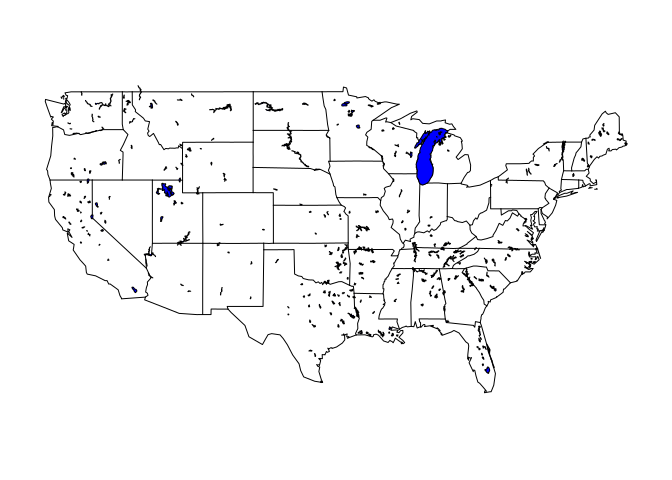
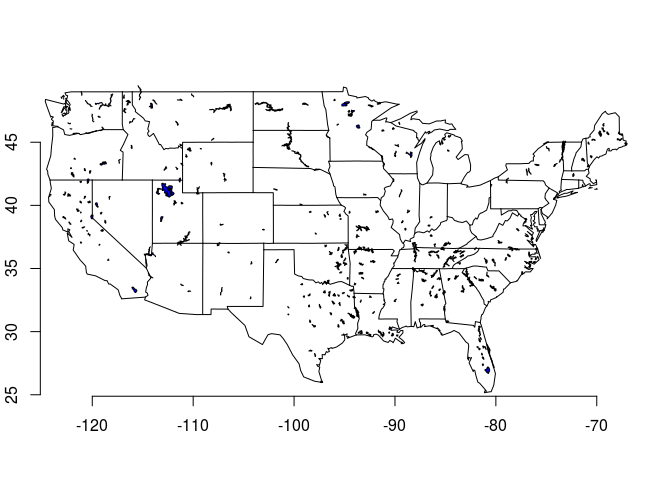
remake README

diff --git a/README.md b/README.md
@@ -3,6 +3,8 @@
 R client for the Global Lakes and Wetlands Database (GLWD)
 ==========================================================
 
+[![Project Status: WIP - Initial development is in progress, but there has not yet been a stable, usable release suitable for the public.](http://www.repostatus.org/badges/latest/wip.svg)](http://www.repostatus.org/#wip)
+
 Installation
 ------------
 
@@ -31,11 +33,13 @@ dt <- glwd_load(level = 1)
 library(maps)
 library(sp)
 
-dt <- dt[dt$COUNTRY == "United States" & dt$LAT_DEG < 56,] 
+dt <- dt[dt$COUNTRY == "United States" &
+         dt$LAT_DEG < 56 &
+         dt$AREA_SKM < 30000,] 
  
 map("state")
-
 plot(dt, add = TRUE, col = "blue")
+axis(1); axis(2)
 ```
 
 ![](README_files/figure-markdown_github/unnamed-chunk-5-1.png)
@@ -44,36 +48,36 @@ plot(dt, add = TRUE, col = "blue")
 dt@data[1:5,]
 ```
 
-    ##     GLWD_ID      TYPE                LAKE_NAME DAM_NAME POLY_SRC AREA_SKM
-    ## 5         6      Lake            Lake Michigan     <NA> ArcWorld  57399.4
-    ## 25       26      Lake          Great Salt Lake     <NA>      DCW   5965.8
-    ## 109     110 Reservoir Lakes Sakakawea, Audubon Garrison      DCW   1492.0
-    ## 113     114      Lake          Lake Okeechobee     <NA>      DCW   1436.8
-    ## 121     122 Reservoir                Lake Oahe     Oahe      DCW   1347.8
-    ##     PERIM_KM LONG_DEG LAT_DEG ELEV_M CATCH_TSKM INFLOW_CMS VOLUME_CKM
-    ## 5     2244.7   -87.09   43.86    176      173.4      927.3         NA
-    ## 25     920.7  -112.50   41.20   1275       43.9       27.7         NA
-    ## 109   1174.7  -102.32   47.81    571      467.5      740.1      22.82
-    ## 113    247.4   -80.86   26.95      4       13.5        3.7         NA
-    ## 121   1359.1  -100.38   45.49    499      617.5      798.1      23.81
-    ##     VOL_SRC       COUNTRY SEC_CNTRY    RIVER  NEAR_CITY MGLD_TYPE
-    ## 5      <NA> United States      <NA>     <NA>       <NA>      open
-    ## 25     <NA> United States      <NA>     <NA>       <NA>   closedx
-    ## 109   ICOLD United States      <NA> Missouri River Dale      open
-    ## 113    <NA> United States      <NA>     <NA>       <NA>      open
-    ## 121   ICOLD United States      <NA> Missouri     Pierre      <NA>
-    ##     MGLD_AREA LRS_AREA LRS_AR_SRC LRS_CATCH DAM_HEIGHT DAM_YEAR USE_1
-    ## 5       58000       NA       <NA>        NA         NA       NA  <NA>
-    ## 25       6000       NA       <NA>        NA         NA       NA  <NA>
-    ## 109       700      538      ICOLD    468632         62     1956     c
-    ## 113      1000       NA       <NA>        NA         NA       NA  <NA>
-    ## 121        NA     1522      ICOLD    630636         75     1958     c
-    ##     USE_2 USE_3
-    ## 5    <NA>  <NA>
-    ## 25   <NA>  <NA>
-    ## 109     h     i
-    ## 113  <NA>  <NA>
-    ## 121     h     i
+    ##     GLWD_ID      TYPE                  LAKE_NAME DAM_NAME POLY_SRC
+    ## 25       26      Lake            Great Salt Lake     <NA>      DCW
+    ## 109     110 Reservoir   Lakes Sakakawea, Audubon Garrison      DCW
+    ## 113     114      Lake            Lake Okeechobee     <NA>      DCW
+    ## 121     122 Reservoir                  Lake Oahe     Oahe      DCW
+    ## 150     151      Lake Red Lake (Upper and Lower)     <NA>      DCW
+    ##     AREA_SKM PERIM_KM LONG_DEG LAT_DEG ELEV_M CATCH_TSKM INFLOW_CMS
+    ## 25    5965.8    920.7  -112.50   41.20   1275       43.9       27.7
+    ## 109   1492.0   1174.7  -102.32   47.81    571      467.5      740.1
+    ## 113   1436.8    247.4   -80.86   26.95      4       13.5        3.7
+    ## 121   1347.8   1359.1  -100.38   45.49    499      617.5      798.1
+    ## 150   1133.3    196.7   -95.08   48.04    358        3.6        5.0
+    ##     VOLUME_CKM VOL_SRC       COUNTRY SEC_CNTRY    RIVER  NEAR_CITY
+    ## 25          NA    <NA> United States      <NA>     <NA>       <NA>
+    ## 109      22.82   ICOLD United States      <NA> Missouri River Dale
+    ## 113         NA    <NA> United States      <NA>     <NA>       <NA>
+    ## 121      23.81   ICOLD United States      <NA> Missouri     Pierre
+    ## 150         NA    <NA> United States      <NA>     <NA>       <NA>
+    ##     MGLD_TYPE MGLD_AREA LRS_AREA LRS_AR_SRC LRS_CATCH DAM_HEIGHT DAM_YEAR
+    ## 25    closedx      6000       NA       <NA>        NA         NA       NA
+    ## 109      open       700      538      ICOLD    468632         62     1956
+    ## 113      open      1000       NA       <NA>        NA         NA       NA
+    ## 121      <NA>        NA     1522      ICOLD    630636         75     1958
+    ## 150      open      1000       NA       <NA>        NA         NA       NA
+    ##     USE_1 USE_2 USE_3
+    ## 25   <NA>  <NA>  <NA>
+    ## 109     c     h     i
+    ## 113  <NA>  <NA>  <NA>
+    ## 121     c     h     i
+    ## 150  <NA>  <NA>  <NA>
 
 References
 ----------
